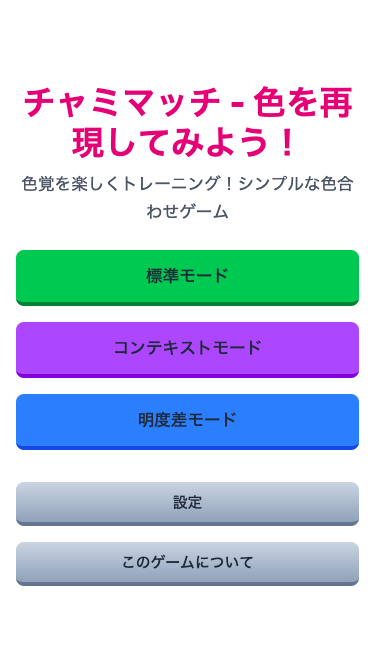
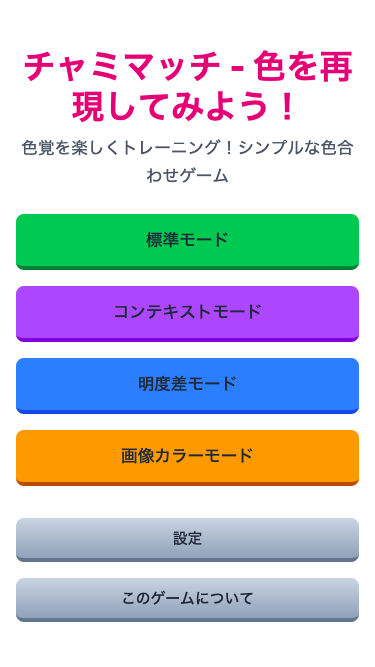
update screenshots

diff --git a/README.md b/README.md
@@ -6,12 +6,13 @@ Language: [English](README.md) | [日本語](README.ja.md) | [繁體中文](READ
 
 ## Gameplay
 
-| Screen          | Screenshots                                                              |
-| --------------- | ------------------------------------------------------------------------ |
-| Welcome         | <img src="./docs/screenshots/en/light/mobile/welcome.png" width="400">  |
-| Game            | <img src="./docs/screenshots/en/light/mobile/game.png" width="400">      |
-| Context Game    | <img src="./docs/screenshots/en/light/mobile/context-game.png" width="400"> |
-| Relative Game   | <img src="./docs/screenshots/en/light/mobile/relative-game.png" width="400"> |
+| Screen        | Screenshots                                                                  |
+| ------------- | ---------------------------------------------------------------------------- |
+| Welcome       | <img src="./docs/screenshots/en/light/mobile/welcome.png" width="400">       |
+| Game          | <img src="./docs/screenshots/en/light/mobile/game.png" width="400">          |
+| Context Game  | <img src="./docs/screenshots/en/light/mobile/context-game.png" width="400">  |
+| Relative Game | <img src="./docs/screenshots/en/light/mobile/relative-game.png" width="400"> |
+| Image Game    | <img src="./docs/screenshots/en/light/mobile/image-game.png" width="400">    |
 
 ### Dark Mode
 
@@ -21,6 +22,7 @@ Language: [English](README.md) | [日本語](README.ja.md) | [繁體中文](READ
 | Game            | <img src="./docs/screenshots/en/dark/mobile/game.png" width="400">      |
 | Context Game    | <img src="./docs/screenshots/en/dark/mobile/context-game.png" width="400"> |
 | Relative Game   | <img src="./docs/screenshots/en/dark/mobile/relative-game.png" width="400"> |
+| Image Game    | <img src="./docs/screenshots/en/dark/mobile/image-game.png" width="400">    |
 
 ## Credits
 

diff --git a/README.ja.md b/README.ja.md
@@ -12,6 +12,7 @@
 | 標準モード         | <img src="./docs/screenshots/ja/light/mobile/game.png" width="400">     |
 | コンテキストモード | <img src="./docs/screenshots/ja/light/mobile/context-game.png" width="400"> |
 | 明度差モード       | <img src="./docs/screenshots/ja/light/mobile/relative-game.png" width="400"> |
+| 画像モード         | <img src="./docs/screenshots/ja/light/mobile/image-game.png" width="400">    |
 
 ### ダークモード
 
@@ -21,6 +22,7 @@
 | 標準モード         | <img src="./docs/screenshots/ja/dark/mobile/game.png" width="400">     |
 | コンテキストモード | <img src="./docs/screenshots/ja/dark/mobile/context-game.png" width="400"> |
 | 明度差モード       | <img src="./docs/screenshots/ja/dark/mobile/relative-game.png" width="400"> |
+| 画像モード         | <img src="./docs/screenshots/ja/dark/mobile/image-game.png" width="400">    |
 
 ## クレジット
 

diff --git a/README.zh-TW.md b/README.zh-TW.md
@@ -12,6 +12,7 @@
 | 標準模式         | <img src="./docs/screenshots/zh-TW/light/mobile/game.png" width="400">    |
 | 情境模式         | <img src="./docs/screenshots/zh-TW/light/mobile/context-game.png" width="400"> |
 | 亮度差異模式     | <img src="./docs/screenshots/zh-TW/light/mobile/relative-game.png" width="400"> |
+| 圖片模式         | <img src="./docs/screenshots/zh-TW/light/mobile/image-game.png" width="400">    |
 
 ### 暗黑模式
 
@@ -21,6 +22,7 @@
 | 標準模式         | <img src="./docs/screenshots/zh-TW/dark/mobile/game.png" width="400">    |
 | 情境模式         | <img src="./docs/screenshots/zh-TW/dark/mobile/context-game.png" width="400"> |
 | 亮度差異模式     | <img src="./docs/screenshots/zh-TW/dark/mobile/relative-game.png" width="400"> |
+| 圖片模式         | <img src="./docs/screenshots/zh-TW/dark/mobile/image-game.png" width="400">    |
 
 ## 致謝
 
